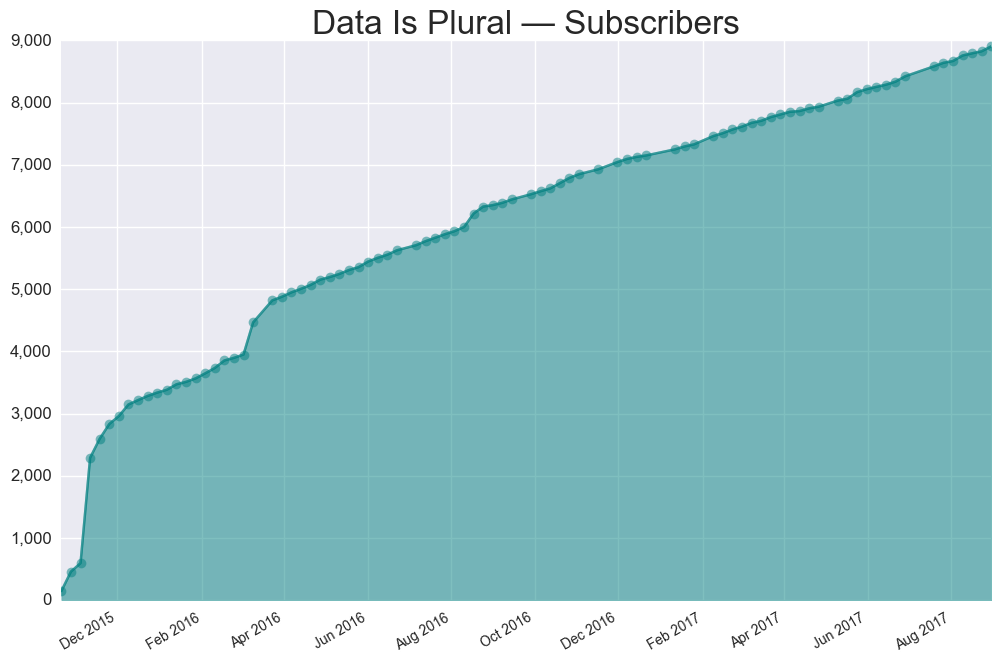
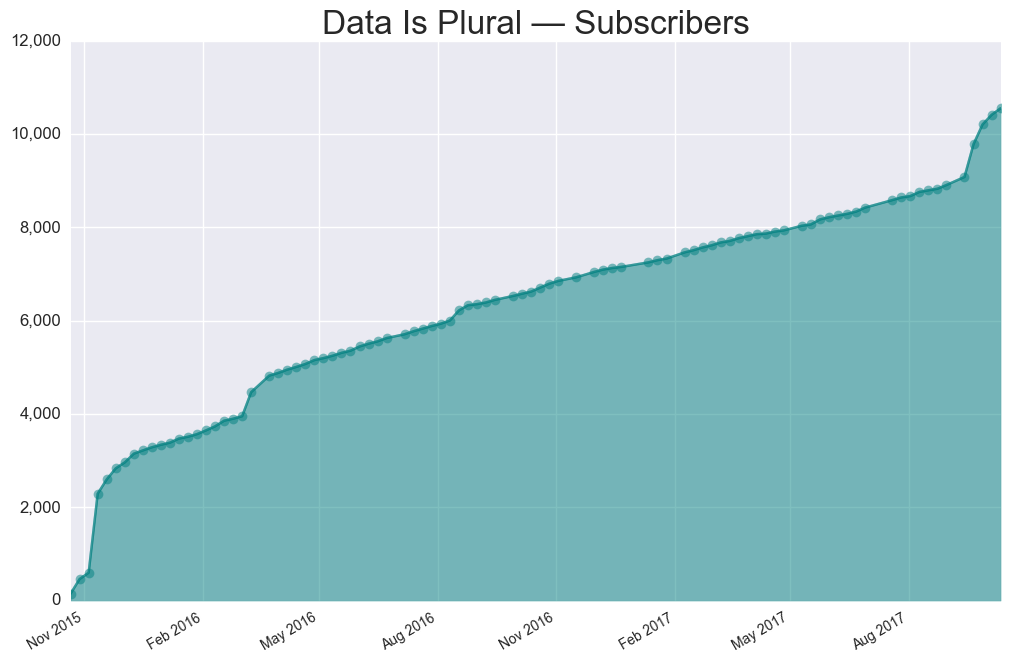
Update data + charts; add note re. Sept 2017 spike

diff --git a/README.md b/README.md
@@ -14,6 +14,8 @@ This [autogenerated](scripts/make-chart-subscribers.py) chart tracks the number 
 
 - March 2016 spike coincided with a [nice Poynter article about the newsletter](http://www.poynter.org/2016/meet-the-buzzfeed-editor-that-data-journalists-love/400553/).
 
+- September 2017 spike coincided with DIP being mentioned in [Fast Company's "9 Newsletters To Make You Smarter"](https://www.fastcompany.com/40457819/9-newsletters-to-make-you-smarter) and in [Paul Bradshaw's list of newsletters about data](https://onlinejournalismblog.com/2017/09/19/email-newsletters-about-data-journalism/).
+
 ## Open Rate
 
 This [autogenerated](scripts/make-chart-open-rate.py) chart tracks each edition's "open rate" — the percentage of subscribers whom TinyLetter detected as having opened the newsletter:
